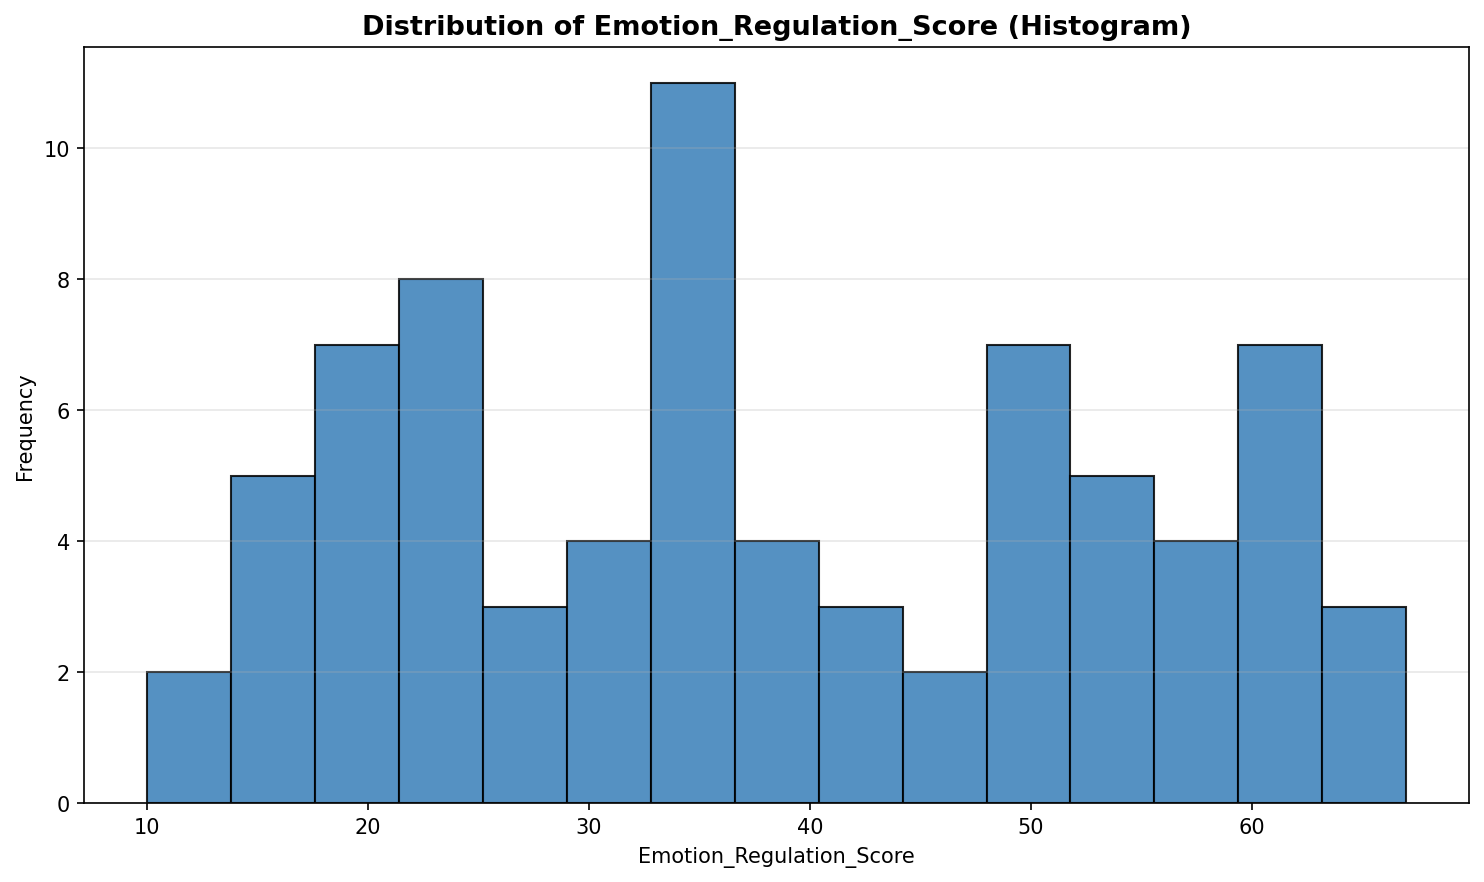
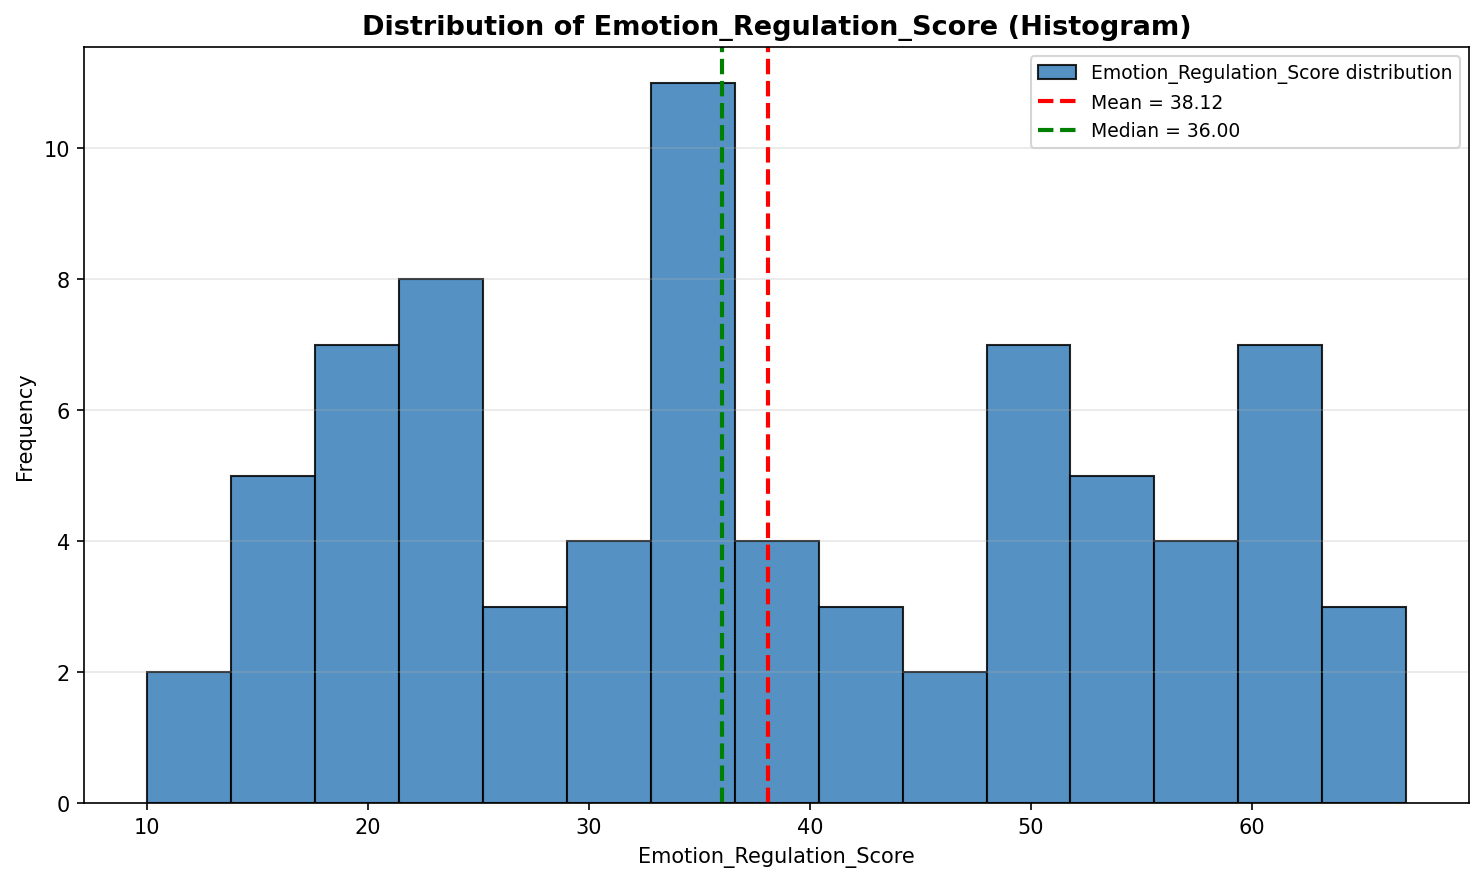
new changes

Changed region(s): [[0.6819, 0.0612, 0.9919, 0.1531]]

diff --git a/compscie_timesleep.py b/compscie_timesleep.py
@@ -1,9 +1,11 @@
 # ============================================
 # Sleep Deprivation and Cognitive Performance Analyzer
-# Option A (FIXED): Raw xlsx columns
-#   Sleep-related  → PIE only
-#   Non-sleep      → BAR/HISTOGRAM only
-#   Age, BMI, Gender → REMOVED
+# Sleep_Hours     → PIE only
+# Other sleep     → SCATTER PLOT LINE
+# Stress_Level    → SCATTER PLOT LINE
+# Other non-sleep → BAR / HISTOGRAM only
+# Age, BMI, Gender → REMOVED
+# ALL CHARTS NOW HAVE LEGENDS
 # ============================================
 
 import pandas as pd
@@ -29,7 +31,6 @@ df = df.dropna()
 
 # ============================================================
 # 3. FULL STATISTICS FOR EVERY NUMERICAL COLUMN (raw xlsx)
-#    Age and BMI have been REMOVED
 # ============================================================
 numerical_cols = [
     "Sleep_Hours", "Sleep_Quality_Score", "Daytime_Sleepiness",
@@ -63,8 +64,7 @@ print(stats_df.to_string(index=False))
 stats_df.to_csv("variable_statistics.csv", index=False)
 
 # ============================================================
-# 4. VALUE COUNTS FOR DISCRETE / CATEGORICAL RAW COLUMNS
-#    Age and Gender have been REMOVED
+# 4. VALUE COUNTS FOR DISCRETE RAW COLUMNS
 # ============================================================
 discrete_cols = [
     "Sleep_Quality_Score", "Daytime_Sleepiness",
@@ -95,9 +95,8 @@ palette = [
     '#FB9A99', '#A6CEE3', '#33A02C', '#E31A1C', '#6A3D9A'
 ]
 
-# --- PIE (SLEEP-RELATED ONLY) ---
+# --- PIE (only for Sleep_Hours) ---
 def draw_pie(series, title, filename):
-    """Small pie + side legend + clear percentage labels on each slice."""
     vc = series.value_counts().sort_index()
     labels = [str(x) for x in vc.index]
     values = vc.values
@@ -105,7 +104,6 @@ def draw_pie(series, title, filename):
     colors = [palette[i % len(palette)] for i in range(len(values))]
 
     fig, ax = plt.subplots(figsize=(11, 6))
-
     wedges, texts, autotexts = ax.pie(
         values,
         labels=None,
@@ -117,7 +115,7 @@ def draw_pie(series, title, filename):
         textprops={"fontsize": 9, "fontweight": "bold", "color": "white"}
     )
     for autotext in autotexts:
-        autotext.set_fontsize(8)
+        autotext.set_fontsize(9)
         autotext.set_fontweight("bold")
         autotext.set_color("white")
 
@@ -125,9 +123,9 @@ def draw_pie(series, title, filename):
     ax.legend(wedges, legend_labels,
               loc="center left",
               bbox_to_anchor=(1.0, 0.5),
-              fontsize=8,
+              fontsize=9,
               title=series.name,
-              title_fontsize=9)
+              title_fontsize=10)
 
     ax.set_title(title, fontsize=13, fontweight="bold")
     plt.tight_layout()
@@ -135,22 +133,70 @@ def draw_pie(series, title, filename):
     plt.show()
     print(f"[Saved] {filename}")
 
-# --- HISTOGRAM (NON-SLEEP CONTINUOUS ONLY) ---
-def draw_hist(column_name, bins, filename, color='#377EB8'):
-    plt.figure(figsize=(10, 6))
-    plt.hist(df[column_name], bins=bins, edgecolor="black",
-             color=color, alpha=0.85)
-    plt.title(f"Distribution of {column_name} (Histogram)",
+# --- SCATTER PLOT LINE ---
+def draw_scatter_line(series, title, filename, line_color='#7F3FBF'):
+    vc = series.value_counts().sort_index()
+    x = list(vc.index)
+    y = list(vc.values)
+    total = sum(y)
+
+    plt.figure(figsize=(11, 6))
+
+    plt.scatter(x, y,
+                s=140, color=line_color,
+                edgecolor='black', zorder=3,
+                label=f'{series.name} (count)')
+
+    plt.plot(x, y, color=line_color,
+             linewidth=2, alpha=0.7, zorder=2,
+             label=f'{series.name} (trend)')
+
+    for xi, yi in zip(x, y):
+        pct = yi / total * 100
+        plt.annotate(f"{yi}\n({pct:.1f}%)",
+                     (xi, yi),
+                     textcoords="offset points",
+                     xytext=(0, 12),
+                     ha='center',
+                     fontsize=8, fontweight='bold')
+
+    plt.title(title + " (Scatter Plot Line)",
               fontsize=13, fontweight="bold")
-    plt.xlabel(column_name)
-    plt.ylabel("Frequency")
-    plt.grid(axis='y', alpha=0.3)
+    plt.xlabel(series.name)
+    plt.ylabel("Number of Participants")
+    plt.ylim(0, max(y) * 1.25)
+    plt.xticks(rotation=15)
+    plt.grid(True, alpha=0.3)
+    plt.legend(loc="upper right", fontsize=9)
     plt.tight_layout()
     plt.savefig(filename, dpi=150, bbox_inches="tight")
     plt.show()
     print(f"[Saved] {filename}")
 
-# --- BAR (NON-SLEEP DISCRETE ONLY) ---
+# --- HISTOGRAM ---
+def draw_hist(column_name, bins, filename, color='#377EB8'):
+    plt.figure(figsize=(10, 6))
+    plt.hist(df[column_name], bins=bins, edgecolor="black",
+             color=color, alpha=0.85,
+             label=f"{column_name} distribution")
+    plt.axvline(df[column_name].mean(), color='red',
+                linestyle='--', linewidth=2,
+                label=f"Mean = {df[column_name].mean():.2f}")
+    plt.axvline(df[column_name].median(), color='green',
+                linestyle='--', linewidth=2,
+                label=f"Median = {df[column_name].median():.2f}")
+    plt.title(f"Distribution of {column_name} (Histogram)",
+              fontsize=13, fontweight="bold")
+    plt.xlabel(column_name)
+    plt.ylabel("Frequency")
+    plt.grid(axis='y', alpha=0.3)
+    plt.legend(loc="upper right", fontsize=9)
+    plt.tight_layout()
+    plt.savefig(filename, dpi=150, bbox_inches="tight")
+    plt.show()
+    print(f"[Saved] {filename}")
+
+# --- BAR ---
 def draw_bar(column_name, title, filename):
     vc = df[column_name].value_counts().sort_index()
     labels = [str(x) for x in vc.index]
@@ -159,7 +205,8 @@ def draw_bar(column_name, title, filename):
     colors = [palette[i % len(palette)] for i in range(len(values))]
 
     plt.figure(figsize=(11, 6))
-    bars = plt.bar(labels, values, edgecolor="black", color=colors)
+    bars = plt.bar(labels, values, edgecolor="black", color=colors,
+                   label=f"{column_name} count")
     for bar, cnt in zip(bars, values):
         height = bar.get_height()
         pct = cnt / total * 100
@@ -173,13 +220,14 @@ def draw_bar(column_name, title, filename):
     plt.ylim(0, max(values) * 1.25)
     plt.xticks(rotation=15)
     plt.grid(axis='y', alpha=0.3)
+    plt.legend(loc="upper right", fontsize=9)
     plt.tight_layout()
     plt.savefig(filename, dpi=150, bbox_inches="tight")
     plt.show()
     print(f"[Saved] {filename}")
 
 # ============================================================
-# 6. SLEEP-RELATED COLUMNS → PIE ONLY
+# 6. SLEEP_HOURS → PIE ONLY
 # ============================================================
 def bin_sleep_hours(x):
     if x <= 2:
@@ -196,33 +244,46 @@ def bin_sleep_hours(x):
 sleep_hours_binned = df["Sleep_Hours"].apply(bin_sleep_hours)
 sleep_hours_binned.name = "Sleep_Hours"
 
+order = ["<=2h", "3-4h", "5-6h", "7-8h", ">=9h"]
+sleep_hours_binned = pd.Categorical(sleep_hours_binned, categories=order, ordered=True)
+sleep_hours_binned = pd.Series(sleep_hours_binned, name="Sleep_Hours")
+
 draw_pie(sleep_hours_binned,
          "Sleep_Hours – Participants per Sleep Range",
          "Sleep_Hours_pie.png")
 
-draw_pie(df["Sleep_Quality_Score"],
-         "Sleep_Quality_Score – Participants per Score",
-         "Sleep_Quality_Score_pie.png")
+# ============================================================
+# 7. OTHER SLEEP-RELATED COLUMNS → SCATTER PLOT LINE
+# ============================================================
+draw_scatter_line(df["Sleep_Quality_Score"],
+                  "Sleep_Quality_Score – Participants per Score",
+                  "Sleep_Quality_Score_scatter_line.png",
+                  line_color='#E41A1C')
 
-draw_pie(df["Daytime_Sleepiness"],
-         "Daytime_Sleepiness – Participants per Score",
-         "Daytime_Sleepiness_pie.png")
+draw_scatter_line(df["Daytime_Sleepiness"],
+                  "Daytime_Sleepiness – Participants per Score",
+                  "Daytime_Sleepiness_scatter_line.png",
+                  line_color='#377EB8')
 
 # ============================================================
-# 7. NON-SLEEP COLUMNS → BAR / HISTOGRAM ONLY (no pies)
-#    Age, BMI, Gender have been REMOVED
+# 8. STRESS_LEVEL → SCATTER PLOT LINE
 # ============================================================
-# Discrete raw columns → bar chart
+draw_scatter_line(df["Stress_Level"],
+                  "Stress_Level – Participants per Score",
+                  "Stress_Level_scatter_line.png",
+                  line_color='#FF7F00')
+
+# ============================================================
+# 9. OTHER NON-SLEEP COLUMNS → BAR / HISTOGRAM ONLY
+# ============================================================
 discrete_non_sleep = [
     ("Caffeine_Intake", "Caffeine_Intake"),
-    ("Physical_Activity_Level", "Physical_Activity_Level"),
-    ("Stress_Level", "Stress_Level")
+    ("Physical_Activity_Level", "Physical_Activity_Level")
 ]
 
 for col, title in discrete_non_sleep:
     draw_bar(col, title, f"{col}_bar.png")
 
-# Continuous raw columns → histogram
 continuous_non_sleep = [
     ("PVT_Reaction_Time", 15),
     ("N_Back_Accuracy", 15),
@@ -235,16 +296,20 @@ for col, bins in continuous_non_sleep:
               color='#377EB8')
 
 # ============================================================
-# 8. SUMMARY
+# 10. SUMMARY
 # ============================================================
 print("\n" + "="*80)
-print("SLEEP-RELATED OUTPUTS (PIE ONLY)")
+print("SLEEP_HOURS OUTPUT (PIE ONLY)")
 print("="*80)
 print(" - Sleep_Hours_pie.png")
-print(" - Sleep_Quality_Score_pie.png")
-print(" - Daytime_Sleepiness_pie.png")
 
-print("\nNON-SLEEP OUTPUTS (BAR / HISTOGRAM ONLY)")
+print("\nSLEEP-RELATED + STRESS OUTPUTS (SCATTER PLOT LINE)")
+print("="*80)
+print(" - Sleep_Quality_Score_scatter_line.png")
+print(" - Daytime_Sleepiness_scatter_line.png")
+print(" - Stress_Level_scatter_line.png")
+
+print("\nOTHER NON-SLEEP OUTPUTS (BAR / HISTOGRAM ONLY)")
 print("="*80)
 for col, _ in discrete_non_sleep:
     print(f" - {col}_bar.png")
